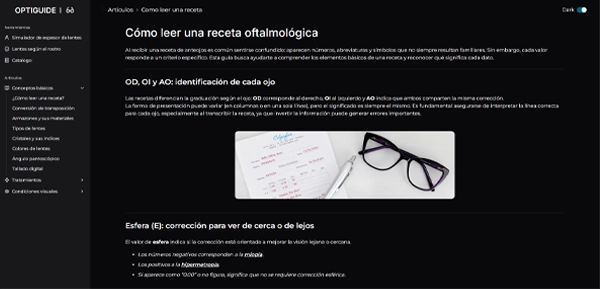
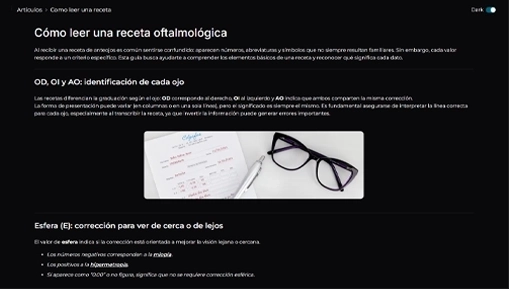
refactor: CSS carousel, a11y labels, and LCP/perf improvements
Replace JS slider with a pure CSS carousel scoped below 3xl, add aria-labels
on radio controls, optimize first project image for LCP, align preload URL,
and defer grid animation until after window load to shorten the critical path.
Remove unused slider.ts and init.ts; compress project screenshots.

diff --git a/src/features/projects/types.ts b/src/features/projects/types.ts
@@ -4,7 +4,7 @@ export interface Project {
   title: string;
   description: string;
   image: ImageMetadata;
-  imageAlt?: string;
+  imageAlt: string;
   projectURL: string;
   githubURL: string;
   techs: readonly string[];